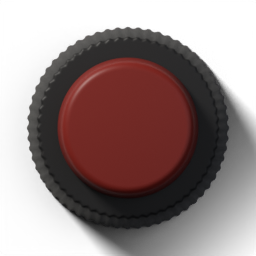
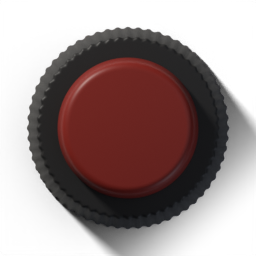
Render CI: fail on Blender Python errors and publish the log; softer backlight in lit pads; first lit-pad renders
Claude-Session: https://claude.ai/code/session_012Sa4YjjM9gXmnNwGCXX94K

diff --git a/art/blender/render_ui.py b/art/blender/render_ui.py
@@ -558,13 +558,13 @@ def build_pad(pressed, lit=None, name=None):
     if lit is not None:
         # backlit translucent rubber: colour from inside, strongest in the middle of the pad
         nt = rubber.node_tree
-        set_input(bsdf, "Base Color", (*[0.35 * base[k] + 0.65 * lit[k] * 0.55 for k in range(3)], 1))
+        set_input(bsdf, "Base Color", (*[0.6 * base[k] + 0.4 * lit[k] * 0.45 for k in range(3)], 1))
         set_input(bsdf, ["Emission Color", "Emission"], (*lit, 1))
         tc = nt.nodes.new("ShaderNodeTexCoord")
         mp = nt.nodes.new("ShaderNodeMapping"); mp.inputs["Scale"].default_value = (1.0 / (size * S * 0.62),) * 3
         gr = nt.nodes.new("ShaderNodeTexGradient"); gr.gradient_type = 'QUADRATIC_SPHERE'
         mr = nt.nodes.new("ShaderNodeMath"); mr.operation = 'MULTIPLY_ADD'
-        mr.inputs[1].default_value = 3.2; mr.inputs[2].default_value = 0.9
+        mr.inputs[1].default_value = 1.7; mr.inputs[2].default_value = 0.22
         nt.links.new(tc.outputs["Object"], mp.inputs["Vector"])
         nt.links.new(mp.outputs["Vector"], gr.inputs["Vector"])
         nt.links.new(gr.outputs["Fac"], mr.inputs[0])
